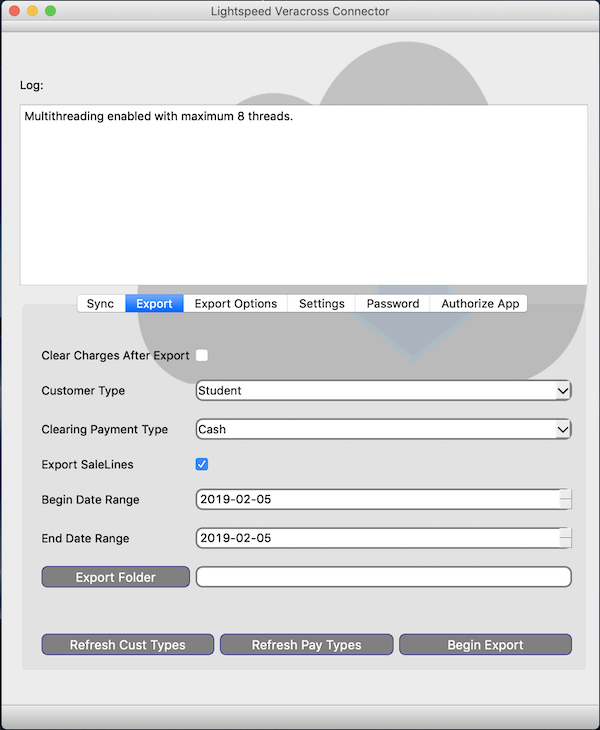
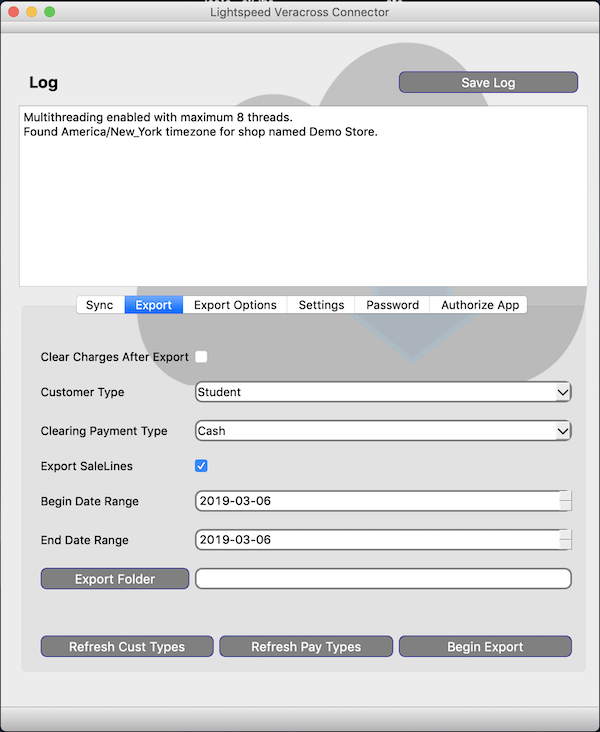
logfile additions

diff --git a/mainwindow.py b/mainwindow.py
@@ -61,9 +61,6 @@ class Ui_MainWindow(object):
 "")
         self.centralWidget = QtWidgets.QWidget(MainWindow)
         self.centralWidget.setObjectName("centralWidget")
-        self.lbl_SyncLog = QtWidgets.QLabel(self.centralWidget)
-        self.lbl_SyncLog.setGeometry(QtCore.QRect(20, 50, 60, 16))
-        self.lbl_SyncLog.setObjectName("lbl_SyncLog")
         self.tabs = QtWidgets.QTabWidget(self.centralWidget)
         self.tabs.setGeometry(QtCore.QRect(20, 290, 631, 421))
         self.tabs.setStyleSheet("")
@@ -77,24 +74,18 @@ class Ui_MainWindow(object):
         self.gridLayout_3.setContentsMargins(11, 11, 11, 11)
         self.gridLayout_3.setSpacing(6)
         self.gridLayout_3.setObjectName("gridLayout_3")
+        self.label_19 = QtWidgets.QLabel(self.gridLayoutWidget_3)
+        self.label_19.setObjectName("label_19")
+        self.gridLayout_3.addWidget(self.label_19, 3, 0, 1, 1)
+        self.checkBox_SyncChangesAfterDate = QtWidgets.QCheckBox(self.gridLayoutWidget_3)
+        self.checkBox_SyncChangesAfterDate.setObjectName("checkBox_SyncChangesAfterDate")
+        self.gridLayout_3.addWidget(self.checkBox_SyncChangesAfterDate, 1, 1, 1, 1)
         self.combo_SyncVCUserType = QtWidgets.QComboBox(self.gridLayoutWidget_3)
         self.combo_SyncVCUserType.setObjectName("combo_SyncVCUserType")
         self.combo_SyncVCUserType.addItem("")
         self.combo_SyncVCUserType.addItem("")
         self.combo_SyncVCUserType.addItem("")
         self.gridLayout_3.addWidget(self.combo_SyncVCUserType, 0, 1, 1, 1)
-        self.label_3 = QtWidgets.QLabel(self.gridLayoutWidget_3)
-        self.label_3.setObjectName("label_3")
-        self.gridLayout_3.addWidget(self.label_3, 0, 0, 1, 1)
-        self.label_14 = QtWidgets.QLabel(self.gridLayoutWidget_3)
-        self.label_14.setObjectName("label_14")
-        self.gridLayout_3.addWidget(self.label_14, 1, 0, 1, 1)
-        self.checkBox_SyncChangesAfterDate = QtWidgets.QCheckBox(self.gridLayoutWidget_3)
-        self.checkBox_SyncChangesAfterDate.setObjectName("checkBox_SyncChangesAfterDate")
-        self.gridLayout_3.addWidget(self.checkBox_SyncChangesAfterDate, 1, 1, 1, 1)
-        self.dateEdit_SyncUpdatedAfterDate = QtWidgets.QDateEdit(self.gridLayoutWidget_3)
-        self.dateEdit_SyncUpdatedAfterDate.setObjectName("dateEdit_SyncUpdatedAfterDate")
-        self.gridLayout_3.addWidget(self.dateEdit_SyncUpdatedAfterDate, 2, 1, 1, 1)
         self.combo_SyncGradeLevel = QtWidgets.QComboBox(self.gridLayoutWidget_3)
         self.combo_SyncGradeLevel.setObjectName("combo_SyncGradeLevel")
         self.combo_SyncGradeLevel.addItem("")
@@ -113,9 +104,21 @@ class Ui_MainWindow(object):
         self.combo_SyncGradeLevel.addItem("")
         self.combo_SyncGradeLevel.addItem("")
         self.gridLayout_3.addWidget(self.combo_SyncGradeLevel, 3, 1, 1, 1)
-        self.label_19 = QtWidgets.QLabel(self.gridLayoutWidget_3)
-        self.label_19.setObjectName("label_19")
-        self.gridLayout_3.addWidget(self.label_19, 3, 0, 1, 1)
+        self.label_3 = QtWidgets.QLabel(self.gridLayoutWidget_3)
+        self.label_3.setObjectName("label_3")
+        self.gridLayout_3.addWidget(self.label_3, 0, 0, 1, 1)
+        self.dateEdit_SyncUpdatedAfterDate = QtWidgets.QDateEdit(self.gridLayoutWidget_3)
+        self.dateEdit_SyncUpdatedAfterDate.setObjectName("dateEdit_SyncUpdatedAfterDate")
+        self.gridLayout_3.addWidget(self.dateEdit_SyncUpdatedAfterDate, 2, 1, 1, 1)
+        self.label_14 = QtWidgets.QLabel(self.gridLayoutWidget_3)
+        self.label_14.setObjectName("label_14")
+        self.gridLayout_3.addWidget(self.label_14, 1, 0, 1, 1)
+        self.checkBox_SyncSimulateDelete = QtWidgets.QCheckBox(self.gridLayoutWidget_3)
+        self.checkBox_SyncSimulateDelete.setObjectName("checkBox_SyncSimulateDelete")
+        self.gridLayout_3.addWidget(self.checkBox_SyncSimulateDelete, 4, 1, 1, 1)
+        self.label_27 = QtWidgets.QLabel(self.gridLayoutWidget_3)
+        self.label_27.setObjectName("label_27")
+        self.gridLayout_3.addWidget(self.label_27, 4, 0, 1, 1)
         self.gridLayoutWidget_2 = QtWidgets.QWidget(self.tab_Sync)
         self.gridLayoutWidget_2.setGeometry(QtCore.QRect(10, 340, 611, 41))
         self.gridLayoutWidget_2.setObjectName("gridLayoutWidget_2")
@@ -388,10 +391,28 @@ class Ui_MainWindow(object):
         self.lbl_Icon = QtWidgets.QLabel(self.centralWidget)
         self.lbl_Icon.setGeometry(QtCore.QRect(150, 10, 500, 380))
         self.lbl_Icon.setObjectName("lbl_Icon")
+        self.horizontalLayoutWidget_2 = QtWidgets.QWidget(self.centralWidget)
+        self.horizontalLayoutWidget_2.setGeometry(QtCore.QRect(20, 29, 631, 51))
+        self.horizontalLayoutWidget_2.setObjectName("horizontalLayoutWidget_2")
+        self.horizontalLayout_2 = QtWidgets.QHBoxLayout(self.horizontalLayoutWidget_2)
+        self.horizontalLayout_2.setContentsMargins(11, 11, 11, 11)
+        self.horizontalLayout_2.setSpacing(6)
+        self.horizontalLayout_2.setObjectName("horizontalLayout_2")
+        self.lbl_SyncLog = QtWidgets.QLabel(self.horizontalLayoutWidget_2)
+        self.lbl_SyncLog.setTextFormat(QtCore.Qt.RichText)
+        self.lbl_SyncLog.setObjectName("lbl_SyncLog")
+        self.horizontalLayout_2.addWidget(self.lbl_SyncLog)
+        self.label_28 = QtWidgets.QLabel(self.horizontalLayoutWidget_2)
+        self.label_28.setText("")
+        self.label_28.setObjectName("label_28")
+        self.horizontalLayout_2.addWidget(self.label_28)
+        self.btn_SaveLog = QtWidgets.QPushButton(self.horizontalLayoutWidget_2)
+        self.btn_SaveLog.setObjectName("btn_SaveLog")
+        self.horizontalLayout_2.addWidget(self.btn_SaveLog)
         self.lbl_Icon.raise_()
-        self.lbl_SyncLog.raise_()
         self.tabs.raise_()
         self.txtb_SyncLog.raise_()
+        self.horizontalLayoutWidget_2.raise_()
         MainWindow.setCentralWidget(self.centralWidget)
         self.mainToolBar = QtWidgets.QToolBar(MainWindow)
         self.mainToolBar.setObjectName("mainToolBar")
@@ -411,20 +432,17 @@ class Ui_MainWindow(object):
         self.menuBar.addAction(self.menuFile.menuAction())
 
         self.retranslateUi(MainWindow)
-        self.tabs.setCurrentIndex(2)
+        self.tabs.setCurrentIndex(0)
         QtCore.QMetaObject.connectSlotsByName(MainWindow)
 
     def retranslateUi(self, MainWindow):
         _translate = QtCore.QCoreApplication.translate
         MainWindow.setWindowTitle(_translate("MainWindow", "Lightspeed Veracross Connector"))
-        self.lbl_SyncLog.setText(_translate("MainWindow", "Log:"))
+        self.label_19.setText(_translate("MainWindow", "Limit Sync to Grade Level"))
+        self.checkBox_SyncChangesAfterDate.setText(_translate("MainWindow", "Enable"))
         self.combo_SyncVCUserType.setItemText(0, _translate("MainWindow", "Select Type"))
         self.combo_SyncVCUserType.setItemText(1, _translate("MainWindow", "Faculty Staff"))
         self.combo_SyncVCUserType.setItemText(2, _translate("MainWindow", "Students"))
-        self.label_3.setText(_translate("MainWindow", "VC User Type"))
-        self.label_14.setText(_translate("MainWindow", "Only Include Changes After Specified Date"))
-        self.checkBox_SyncChangesAfterDate.setText(_translate("MainWindow", "Enable"))
-        self.dateEdit_SyncUpdatedAfterDate.setDisplayFormat(_translate("MainWindow", "yyyy-MM-dd"))
         self.combo_SyncGradeLevel.setItemText(0, _translate("MainWindow", "None"))
         self.combo_SyncGradeLevel.setItemText(1, _translate("MainWindow", "Kindergarten"))
         self.combo_SyncGradeLevel.setItemText(2, _translate("MainWindow", "Pre-Kindergarten"))
@@ -440,7 +458,11 @@ class Ui_MainWindow(object):
         self.combo_SyncGradeLevel.setItemText(12, _translate("MainWindow", "Grade 10"))
         self.combo_SyncGradeLevel.setItemText(13, _translate("MainWindow", "Grade 11"))
         self.combo_SyncGradeLevel.setItemText(14, _translate("MainWindow", "Grade 12"))
-        self.label_19.setText(_translate("MainWindow", "Limit Sync to Grade Level"))
+        self.label_3.setText(_translate("MainWindow", "VC User Type"))
+        self.dateEdit_SyncUpdatedAfterDate.setDisplayFormat(_translate("MainWindow", "yyyy-MM-dd"))
+        self.label_14.setText(_translate("MainWindow", "Only Include Changes After Specified Date"))
+        self.checkBox_SyncSimulateDelete.setText(_translate("MainWindow", "Enable"))
+        self.label_27.setText(_translate("MainWindow", "Simulate Deleting Inactive Users"))
         self.btn_SyncAllUsers.setToolTip(_translate("MainWindow", "Syncs all VC users with Lightspeed"))
         self.btn_SyncAllUsers.setStatusTip(_translate("MainWindow", "Syncs all VC users with Lightspeed"))
         self.btn_SyncAllUsers.setText(_translate("MainWindow", "Sync Users"))
@@ -493,6 +515,8 @@ class Ui_MainWindow(object):
         self.label_16.setText(_translate("MainWindow", "<html><head/><body><p align=\"center\">Copy and paste the refresh token returned from Lightspeed into your Refresh Token setting on the settings tab. </p><p align=\"center\">Be sure to update the account number from Lightspeed as well.</p></body></html>"))
         self.tabs.setTabText(self.tabs.indexOf(self.tab_Authorize), _translate("MainWindow", "Authorize App"))
         self.lbl_Icon.setText(_translate("MainWindow", "icon"))
+        self.lbl_SyncLog.setText(_translate("MainWindow", "<html><head/><body><p><span style=\" font-size:18pt; font-weight:600;\">Log</span></p></body></html>"))
+        self.btn_SaveLog.setText(_translate("MainWindow", "Save Log"))
         self.menuFile.setTitle(_translate("MainWindow", "File"))
         self.actionQuit.setText(_translate("MainWindow", "Quit"))
 

diff --git a/main.py b/main.py
@@ -104,6 +104,7 @@ class Main(QMainWindow):
         self.ui.btn_GetPaymentTypes.clicked.connect(self.get_payment_types)
         self.ui.btn_Authorize.clicked.connect(self.authorize_app)
         self.ui.btn_ChangeEncPassword.clicked.connect(self.change_password)
+        self.ui.btn_SaveLog.clicked.connect(self.save_log_to_file)
 
         # Settings Buttons
         self.ui.btn_SaveSettings.clicked.connect(self.save_settings_button)
@@ -191,7 +192,7 @@ class Main(QMainWindow):
             else:
                 param = "option=2"
             vcdata = self.vc.pull("students", parameters=param)
-            ls_customerTypeID = 1
+            ls_customerTypeID = self.ls_customer_types["Student"]
         elif self.ui.combo_SyncVCUserType.currentText() == "Faculty Staff":
             self.debug_append_log("Getting Veracross Faculty Staff (Faculty and Staff)", "info")
             if param:
@@ -199,9 +200,9 @@ class Main(QMainWindow):
                 vcdata = self.vc.pull("facstaff", parameters=param_extended)
             else:
                 vcdata = self.vc.pull("facstaff", "roles=1,2")
-            ls_customerTypeID = 2
+            ls_customerTypeID = self.ls_customer_types["FacultyStaff"]
         else:
-            self.debug_append_log("Select VC User Type first.", "info")
+            self.debug_append_log("Select Veracross User Type first.", "info")
             return None
 
         for i in vcdata:
@@ -351,7 +352,7 @@ class Main(QMainWindow):
         valid_vc_ids = []
         for i in self.vc.pull("facstaff", "roles=1,2"):
             valid_vc_ids.append(i["person_pk"])
-        for i in self.vc.pull("students"):
+        for i in self.vc.pull("students", "option=2"):
             valid_vc_ids.append(i["person_pk"])
 
         current_customers = self.ls.get("Customer", dict(load_relations="all"))
@@ -360,8 +361,12 @@ class Main(QMainWindow):
             if i["companyRegistrationNumber"] != '':
                 if int(i["companyRegistrationNumber"]) not in valid_vc_ids:
                     if float(i["CreditAccount"]["balance"]) <= 0:
-                        self.debug_append_log("Delete customer {} {}".format(i["firstName"], i["lastName"]), "info")
-                        self.ls.delete("Customer/" + i["customerID"])
+                        if self.ui.checkBox_SyncSimulateDelete.isChecked():
+                            self.debug_append_log("Customer {} {} would normally be deleted (Simulation)".format(
+                                i["firstName"], i["lastName"]), "info")
+                        else:
+                            self.debug_append_log("Deleting customer {} {}".format(i["firstName"], i["lastName"]), "info")
+                            self.ls.delete("Customer/" + i["customerID"])
                     else:
                         self.debug_append_log("Cannot delete customer {}, {} {} with credit balance.".format(i["customerID"],
                                                                                                              i["firstName"],
@@ -725,6 +730,14 @@ class Main(QMainWindow):
     def select_export_directory(self):
         self.export_dir = QFileDialog.getExistingDirectory(self, 'Select Directory for Export')
         self.ui.line_ExportFolder.setText(self.export_dir)
+
+    def save_log_to_file(self):
+        log_dir = QFileDialog.getExistingDirectory(self, 'Select Directory to Save Log')
+        filename = log_dir + str("/LSVCConnector.log")
+        filepath = open(filename, 'w')
+        with filepath:
+            filepath.write(self.ui.txtb_SyncLog.toPlainText())
+
 
     def save_settings_button(self):
         """

diff --git a/README.md b/README.md
@@ -7,6 +7,7 @@ Features include:
 * Create and update customers in Lightspeed directly from Veracross API.
 * Create and update customers that have been updated in VC after a specific date.
 * Create and update customers based on Veracross Grade Level.
+* Delete customers that are no longer in Veracross and do not have a credit balance.
 * Export charges from Lightspeed in a CSV format that is usable by VC.
 * Export charges by individual sale items, or credit balance total.
 * Clear charge accounts back to zero by applying an exact credit after exporting.
@@ -28,30 +29,32 @@ Features include:
 
 
 ### How to Get Started
-1) [Signup with Lightspeed OAuth](https://cloud.lightspeedapp.com/oauth/register.php)
+1) Create two CustomerTypes in your Lightspeed shop. **Student** and **FacultyStaff**
+
+2) [Signup with Lightspeed OAuth](https://cloud.lightspeedapp.com/oauth/register.php)
 
 ![alt text](images/ls_oauth_signup.png "LS OAuth")
 
-2) Obtain Veracross API credentials from VC Account Rep.
+3) Obtain Veracross API credentials from VC Account Rep.
 
-3) Run the application.  You will be prompted for a password.  This password will be used for encrypting the settings file.
+4) Run the application.  You will be prompted for a password.  This password will be used for encrypting the settings file.
 
-4) On the settings tab, enter:
+5) On the settings tab, enter:
 * LS Account ID Number (Click Username when logged into Lightspeed)
 * LS Developer Client Developer ID
 * LS Developer Client Secret
 * VC Username
 * VC Password
 
-5) Click Save Settings and restart the application.
+6) Click Save Settings and restart the application.
 
-6) Go to the Authorize Tab and click the Authorize link.  Login to LS using your admin login id and password.
+7) Go to the Authorize Tab and click the Authorize link.  Login to LS using your admin login id and password.
 
-7) Grant your application access to the account.  When granted, if you used localhost as the redirect, you will see an error not found page.  
+8) Grant your application access to the account.  When granted, if you used localhost as the redirect, you will see an error not found page.  
 In the URL copy the token after the equals sign and paste this into the first text box. You must complete the next step within 30 seconds.  
 
-8) Click Authorize.
+9) Click Authorize.
 
-9) Copy and paste the returned Refresh Token from the Authorize Tab to the settings tab on the LS Refresh Token field.
+10) Copy and paste the returned Refresh Token from the Authorize Tab to the settings tab on the LS Refresh Token field.
 
-10) Click Save settings.
+11) Click Save settings.
